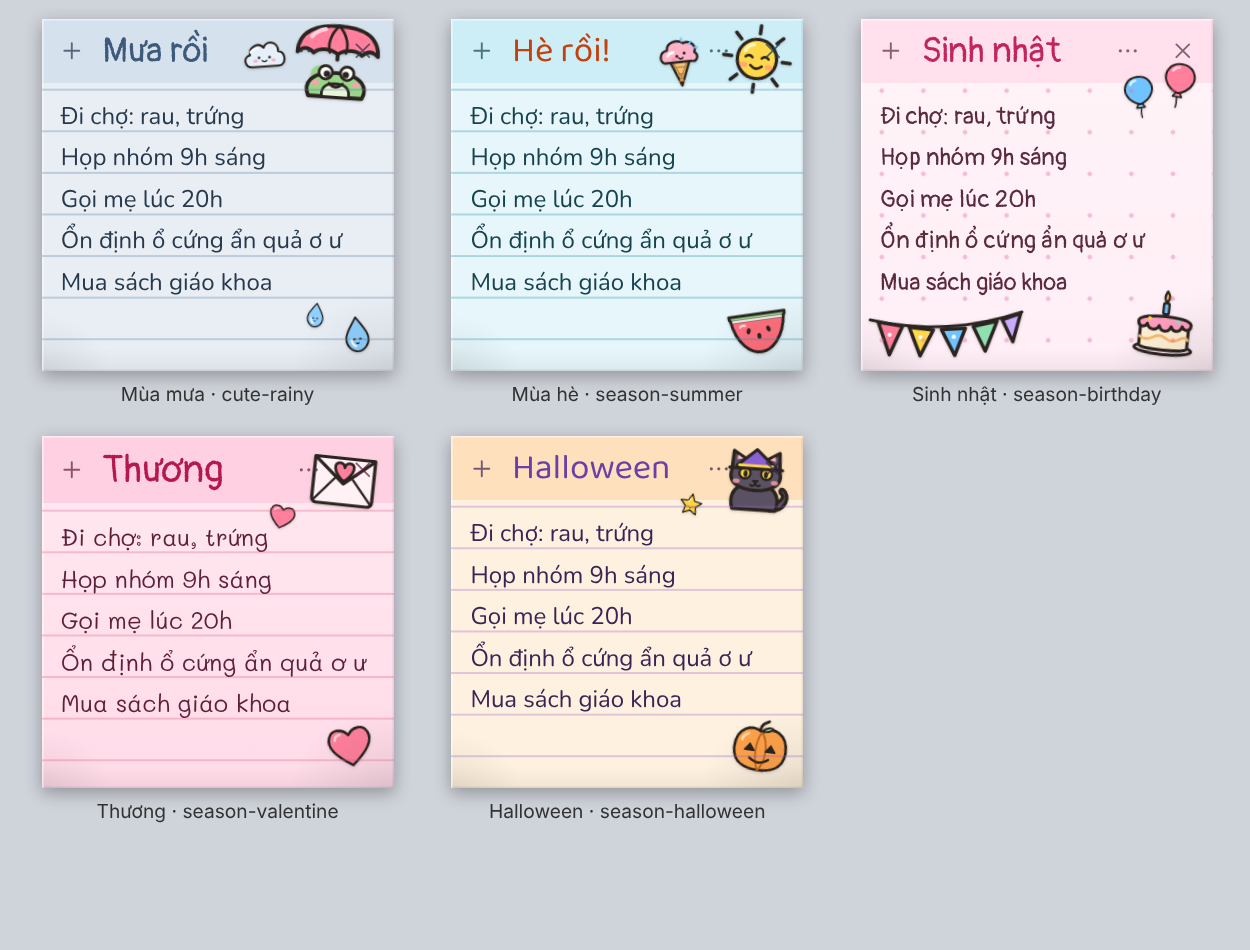
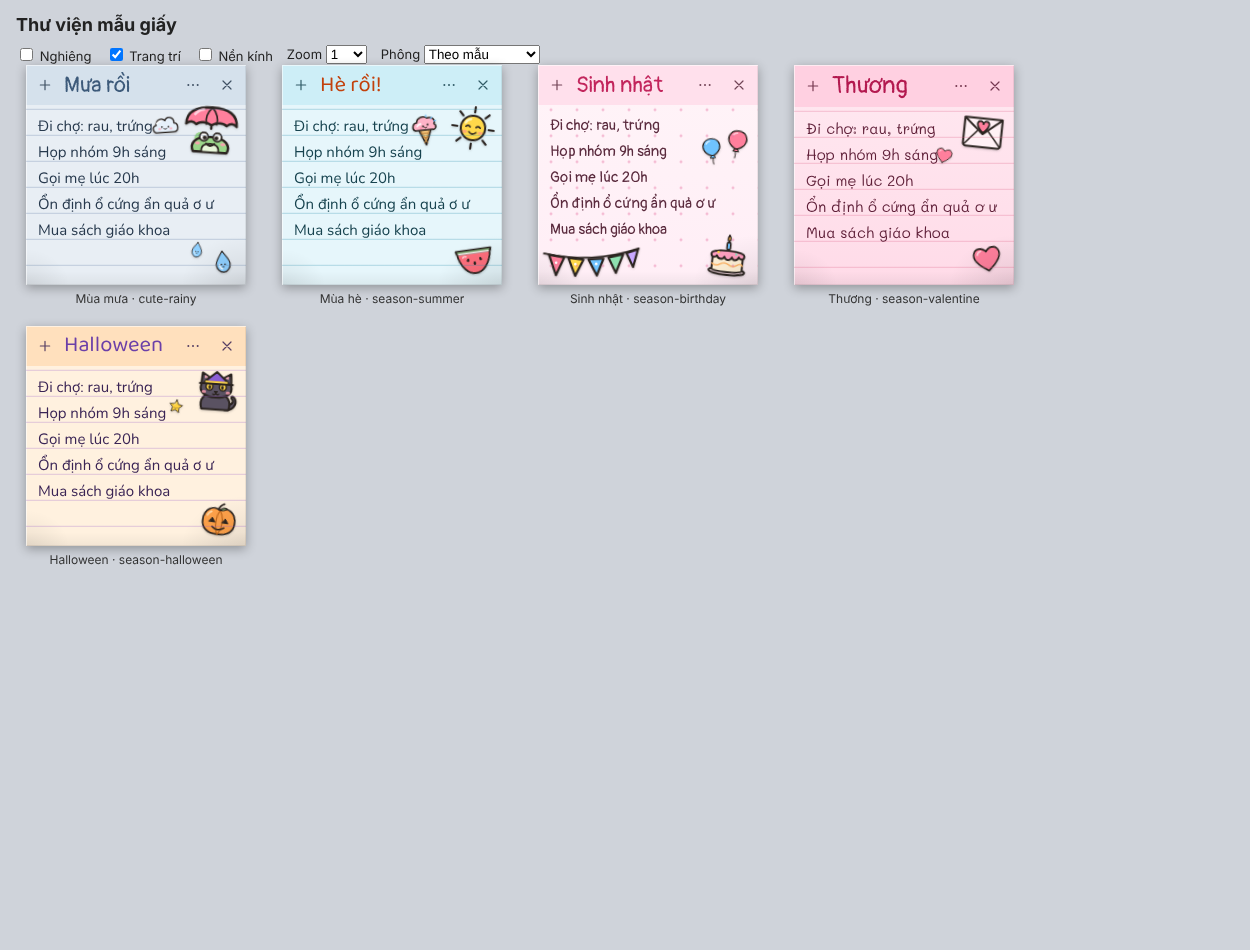
Phòng paper lượt 2: trang trí góc trên không che nút, Hoãn nhắc tính từ giờ hẹn, ảnh nghiệm thu, cập nhật trạng thái
Claude-Session: https://claude.ai/code/session_018BQSJtVWb7SGQiBTxfKC4D

diff --git a/src/note/note.js b/src/note/note.js
@@ -657,7 +657,12 @@
     try {
       if (b.dataset.a === 'edit') { showForm(rid); return; }
       if (b.dataset.a === 'done') r = await N2.doneItem(id, rid);
-      else if (b.dataset.a === 'snooze') { r = await N2.snoozeItem(id, rid, 10); toast('Hoãn 10 phút', 1000); }
+      else if (b.dataset.a === 'snooze') {
+        // snoozeItem đặt due = bây giờ + phút; nhắc chưa tới giờ thì hoãn tính từ giờ hẹn (không làm nhắc sớm hơn)
+        const it = (note.reminders || []).find(x => x && x.id === rid);
+        const ahead = it && it.due > Date.now() ? Math.ceil((it.due - Date.now()) / 60000) : 0;
+        r = ahead + 10 > 7 * 24 * 60 && it ? await N2.setReminderItem(id, rid, { due: it.due + 600000, lead: it.lead, repeat: it.repeat, title: it.title }) : await N2.snoozeItem(id, rid, ahead + 10); toast('Hoãn 10 phút', 1000);
+      }
       else if (b.dataset.a === 'del') r = await N2.removeReminderItem(id, rid);
     } catch (_) {}
     if (r && r.id) applyNote(r, { noHtml: true });

diff --git a/src/note/paper.css b/src/note/paper.css
@@ -112,3 +112,9 @@ body.locked .paper-layer [data-pos="bl"], body.locked .paper-layer [data-pos="br
 /* nút thanh trên nổi rõ khi đè lên trang trí */
 .has-paper .topbar .ib:hover { background: linear-gradient(rgba(var(--fg-rgb), .12), rgba(var(--fg-rgb), .12)), rgb(var(--head-rgb)); }
 .has-paper .topbar .ib[aria-expanded="true"] { background: linear-gradient(rgba(var(--fg-rgb), .2), rgba(var(--fg-rgb), .2)), rgb(var(--head-rgb)); }
+
+/* thanh trên luôn nằm trên trang trí; trang trí 'tr' hạ xuống dưới hàng nút (--tb-r = chiều cao thanh trên) để không che ×, …, đếm checklist */
+.has-paper .topbar > :not(.paper-head) { position: relative; z-index: 2; }
+.has-paper:not(.glass) .topbar .ib:is(:hover, :focus-visible) { opacity: 1; }
+.has-paper { --tb-r: calc(var(--topbar-h, 32px) - 2px); }
+.ppthumb .ppt-in.has-paper { --tb-r: 0px; }

diff --git a/src/note/paper.js b/src/note/paper.js
@@ -201,7 +201,7 @@
       case 'bottom': s.left = 'calc(50% + ' + dx + 'px)'; s.bottom = dy + 'px'; tf = 'translateX(-50%) '; break;
       case 'left': s.left = dx + 'px'; s.top = 'calc(50% + ' + dy + 'px)'; tf = 'translateY(-50%) '; break;
       case 'right': s.right = dx + 'px'; s.top = 'calc(50% + ' + dy + 'px)'; tf = 'translateY(-50%) '; break;
-      default: s.right = dx + 'px'; s.top = dy + 'px'; // tr
+      default: s.right = dx + 'px'; s.top = 'calc(' + dy + 'px + var(--tb-r, 0px))'; // tr: hạ xuống dưới hàng nút thanh trên
     }
     if (w && el.tagName === 'IMG') s.width = w + 'px';
     if (rot) tf += 'rotate(' + r1(rot) + 'deg)';

diff --git a/docs/rooms/paper.md b/docs/rooms/paper.md
@@ -19,41 +19,45 @@ Cảm hứng người dùng gửi: xấp note giấy kem lốm đốm mực, ô 
 - Không dùng tài nguyên có bản quyền; ghi nguồn + giấy phép phông chữ trong `assets/fonts/LICENSES.md`.
 
 ## Trạng thái
-_Cập nhật 2026-10-15 (lượt 1 của phòng)._ Hợp đồng nội bộ: `docs/rooms/paper/DESIGN.md`.
+_Cập nhật 2026-10-15 (lượt 2 của phòng). Đợt 2 xong từ lượt 1 (tóm tắt cuối mục). Hợp đồng nội bộ: `docs/rooms/paper/DESIGN.md`._
 
-**Đã xong (cả 7 việc Đợt 2)**
-1. **Hệ mẫu giấy**: 19 mẫu thiết kế + 7 mẫu "Trơn" (= 7 màu cũ) — Dễ thương 5, Học sinh 4 (có ô ly vở VN, lề đỏ), Tối giản 4 (có kraft, nền tối), Văn phòng 3 (MEMO, To do, legal pad mép xé), Mùa & lễ 3 (Tết, Trung thu, Giáng sinh). `assets/paper/<id>/paper.json` → `node src/note/tools/build-catalog.js [--strict]` sinh `assets/paper/catalog.js` (kiểm schema + tương phản WCAG). Engine `src/note/paper.js/.css`: nền (màu/gradient/lốm đốm/vân/kraft), dòng kẻ cuộn theo chữ, line-height = bước lưới (khớp cả khi zoom), tiêu đề in sẵn, trang trí, mép xé, góc gập, bóng mép giấy. Mẫu trơn = y hệt 0.1.
-2. **Bộ chọn mẫu** (`picker.js`): menu "…" → "Mẫu giấy…": tab nhóm, lưới xem trước, rê chuột xem thử ngay trên note, phông, hình dạng, nghiêng nhẹ, ẩn/hiện trang trí, "Dùng cho note mới". 7 ô màu cũ giữ nguyên (chọn = mẫu trơn).
-3. **Thú nguyên bản**: 12 thú SVG (mèo đen ×3, gấu, thỏ, cún tai nghe, viên mochi, gà con, hamster, cánh cụt, ếch, cá voi) + 16 đồ trang trí (ghim, kẹp, hoa mai/đào, đèn ông sao, bánh trung thu, thông Noel…) — `assets/paper/deco/README.md`.
-4. **Checklist** (`checklist.js`): `<div data-ck="0|1">`; gõ `[] `/`[ ] `/`- [ ] ` (và `- ` khi đã ở chế độ checklist) → ô tick; bấm tick (gạch ngang, mờ), đếm `x/y` trên thanh trên, Enter thêm dòng, Enter dòng rỗng/Backspace đầu dòng thoát, kéo tay nắm đổi thứ tự, menu "Chuyển thành checklist/Bỏ checklist", undo/redo được. Text lưu dạng `- [ ] …`/`- [x] …` cho "hiểu note". Tick → `MochiPaperStore.checkItem` → (main) bus `note:checkItem {noteId,index,done}`.
-5. **Phông offline** OFL có tiếng Việt: Itim, Pangolin, Mali, Nunito, Baloo 2, Be Vietnam Pro (716 KB) — `assets/fonts/LICENSES.md`.
-6. **Hình dạng**: Tự do/Vuông 300×300/Đứng 260×360/Mini 220×170; bóng mép giấy; nghiêng nhẹ (tiêu đề + trang trí). Nền kính vẫn giữ (khi kính bật chỉ vẽ dòng kẻ/tiêu đề/trang trí — chưa thử trên Windows thật).
-7. **Dải gợi ý "hiểu note"** (`insight.js`): chỉ bật khi có `mochi.alarms.insight`; nhận diện mềm `suggestions|actions`. Phòng notes chưa công bố API nên hiện luôn ẩn.
-- Dữ liệu: ngăn `paper` (`src/main/paper/index.js`, test `node src/main/paper/__tests__/paper.test.js` 24 ca). **Khi main chưa nạp module paper** (hiện tại), renderer tự rơi về `localStorage` — mọi tính năng vẫn chạy, chỉ là chưa vào `mochi-data.json`/sao lưu và chưa phát `note:checkItem`.
+**Lượt 2 — đã xong** (commit trên `room/paper`, `npm test` xanh, `build-catalog --strict` xanh)
+1. **Sửa lỗi QA của phòng**: BUG-007 (tô sáng kết hợp đậm/gạch chân mất khi mở lại — sanitizer giữ `background-color` trên B/I/U/S/STRIKE/DEL/MARK/SPAN/FONT; e2e `note-format` 11/11 xanh), BUG-017 (note rỗng mới tự đặt con trỏ), BUG-018 (menu "…" cuộn trong khung, gọn/2 cột ở note thấp — "Xoá note" tới được ở 300×220 và Mini 220×170), BUG-019 (panel nhắc: thân cuộn, hàng nút ghim đáy), BUG-026 (chip: "vừa đến giờ"/"quá hạn vài giây", không hiện giây).
+2. **Thùng rác**: xác nhận xoá đổi thành "Chuyển vào thùng rác?" + "Khôi phục được trong 30 ngày ở danh sách note."
+3. **Nhiều nhắc/note** (API2 của notes): panel liệt kê từng nhắc (tiêu đề, giờ, lặp, quá hạn) với Xong / Hoãn 10 phút / Sửa (thêm ô "Tên nhắc") / Xoá, "+ Thêm nhắc"; chip nhắc chính thêm "· +N". Hoãn nhắc chưa tới giờ tính từ giờ hẹn (không làm nhắc sớm hơn). Không có `mochi.notes2.setReminderItem` hoặc `reminders[]` → hành vi cũ. CSS mới `src/note/reminders.css`.
+4. **Dải gợi ý "hiểu note"** khớp API thật: `mochi.alarms.insight(noteId)` → tối đa 3 nút (co 2/1 nút + "…" ở note hẹp), câu dẫn theo loại gợi ý, bấm → `applySuggestion` → toast `message` → gọi lại; debounce 700ms + `MochiNote.on('note')`; × ẩn tới khi nội dung đổi; note khoá thì tắt checklist/split.
+5. **Ẩn/hiện mẫu**: settings `hiddenPapers: string[]` (main `paperLogic.cleanHidden` + renderer, id `/^[a-z0-9-]{1,64}$/`, ≤200, thay cả mảng). Bộ chọn: "Sửa danh sách" → con mắt trên từng ô, "Hiện lại tất cả"; mẫu đang dùng/mặc định luôn hiện; tab hết mẫu thì ẩn. Đã kiểm: khởi động lại vẫn ẩn.
+6. **Chuyển dữ liệu localStorage cũ → ngăn `paper`** (`paperStore.migrateLegacy`, chạy trong `load`): không ghi đè meta/settings đã có ở main, idempotent, xoá khoá sau khi chuyển. Đã kiểm trên app thật.
+7. **5 mẫu mới** (tổng 31: Trơn 7, Dễ thương 6, Học sinh 4, Tối giản 4, Văn phòng 3, Mùa & lễ 7): `season-summer` "Hè rồi!", `season-birthday` "Sinh nhật", `season-valentine` "Thương", `season-halloween` (mèo đen đội mũ phù thuỷ + bí ngô, không đáng sợ), `cute-rainy` "Mưa rồi" (ếch che ô). 14 SVG trang trí mới nguyên bản (README deco).
+8. **Engine**: trang trí góc trên phải tự hạ xuống dưới hàng nút (`--tb-r`), các nút thanh trên luôn nằm trên trang trí — trước đây ô/phong thư/mèo che "…"/× ở nhiều mẫu.
 
-**Quyết định đã ghi**: per-note lưu trong ngăn `paper.noteMeta` (store.js bỏ khoá lạ của note); note 0.1 không có meta → `plain-<màu>`; đổi mẫu thì đổi luôn `note.color` sang màu gần nhất (danh sách note, nền cửa sổ); tiêu đề Tết là "Tết" (câu dài bị cắt ở note hẹp); trang trí góc dưới mờ đi khi đang gõ để không đè thanh định dạng; số đếm checklist đặt cạnh nút menu.
+**Đã kiểm tích hợp (nhân viên rà soát chạy app thật xvfb + CDP, 0 lỗi console)**: bộ chọn đủ 31 mẫu, xem thử, chọn, "Dùng cho note mới"; ẩn mẫu bền qua khởi động lại; chuyển dữ liệu cũ; checklist (tick, 1/2, lưu `- [x]`); panel nhắc + Mini; dải gợi ý + toast; gõ Việt, đậm + tô sáng giữ sau khởi động lại, undo/redo, Ctrl+F, zoom, khoá, xoá → thùng rác; note 0.1 hồng trơn y nguyên.
+E2E toàn bộ: ca note-format/persist/list xanh. Ca đỏ **không thuộc paper**: `reminder.test.js` 3 ca parse (BUG-009/012, notes), `data.test.js` ca 1 (nhập JSON thêm `reminder.id 'r1'` — migration notes) và 3d (ngăn game mất khi `alarms` hỏng — store/game).
 
-**Đã kiểm (xvfb + điều khiển qua CDP)**: chọn mẫu, xem thử, lưu & khởi động lại vẫn giữ, mẫu mặc định cho note mới (Ctrl+N), Mini, chế độ dự phòng localStorage; chức năng cũ: gõ, đậm, undo/redo, tìm (1/3), zoom (dòng kẻ giãn theo), khoá chỉ đọc, chip nhắc tự hiểu giờ, note 0.1 hồng trơn y nguyên; `npm test` xanh. Rà soát code: không lỗi mức cao; các lỗi trung/thấp đã sửa.
+**Ảnh nghiệm thu lượt 2** (`docs/rooms/paper/`): `paper-grid.png` (31 mẫu), `r2-new-papers.png` (5 mẫu mới), `r2-3-notes-picker.png` (3 note: checklist đang tick 2/3, bộ chọn đang mở, kraft), `r2-picker-hide.png`, `r2-reminders.png` (panel 4 nhắc), `r2-reminders-mini.png` (panel ở Mini), `r2-menu-small.png`, `r2-insight.png`.
 
-**Ảnh nghiệm thu** (`docs/rooms/paper/`): `paper-grid.png` (26 mẫu + thumb), `notes-3-papers-checklist.png` (3 mẫu khác nhau, chữ Việt, checklist đang tick 2/6, note 0.1 trơn), `checklist.png`, `picker.png` (bộ chọn, đang xem thử "Hồng chấm bi"), `fallback-localstorage.png`.
-
-**Cách chạy thử**: thư viện mẫu `src/note/tools/gallery.html` (mở bằng Chromium/Electron qua file://); trang thử `src/note/tools/{checklist,picker,insight}-test.html`. App: như CLAUDE.md; muốn thử ngăn `paper` thật thì sửa tạm `main.js` thêm `'paper'` vào danh sách module (không commit).
+**Cách chạy thử**: như lượt 1 (gallery `src/note/tools/gallery.html`, trang thử `src/note/tools/*-test.html`); app chạy theo CLAUDE.md — ngăn `paper` nay đã được main nạp, không cần sửa tạm `main.js`.
 
 **Chưa kiểm được / đang dở**
-- Chưa thử trên Windows thật (nền kính acrylic + mẫu giấy, phông hiển thị, IME Telex/VNI khi gõ `[] `).
-- Mép xé/góc gập cắt bằng mask trên cửa sổ đục nên phần bị cắt lộ màu nền cửa sổ; nghiêng chỉ áp cho trang trí — cần cửa sổ trong suốt (đề xuất 4).
-- Dải gợi ý chờ API của phòng notes.
+- Chưa thử trên Windows thật (nền kính + mẫu giấy, phông, IME Telex/VNI khi gõ `[] `).
+- Gợi ý loại `remind`/`remind-all`/`alarm` chưa thấy trên app thật (nhắc tự động của notes đã lọc hết) — chỉ kiểm bằng trang thử.
+- Bộ chọn mẫu phủ gần hết note nhỏ nên khó thấy bản xem thử khi rê (nhẹ); trang trí góc trên phải nay hơi chồng chữ dòng đầu bên phải (chữ vẫn nằm trên, đọc được).
+- Mép xé/góc gập/nghiêng thật vẫn chờ cửa sổ trong suốt (đề xuất 4).
 
 **Việc tiếp theo cụ thể**
-1. Khi điều hành nạp `paper`: chuyển dữ liệu localStorage cũ (nếu có) vào ngăn `paper` một lần (paperStore: đọc `mochi.paper.meta.*` rồi `set`).
-2. Khi notes công bố Insight: khớp `insight.js` theo API.md của họ.
-3. Thêm mẫu (mùa hè, sinh nhật, Valentine) và cho người dùng ẩn bớt mẫu.
+1. Bộ chọn: khi rê xem thử thì làm mờ/thu popover (hoặc mở popover ở chế độ "nhỏ gọn" dạng dải ngang dưới đáy) để thấy note.
+2. Engine: dành lề phải dòng đầu (padding) khi có trang trí `tr` để chữ không chồng trang trí.
+3. Thêm mẫu Tết Trung thu thiếu nhi/ khai giảng/ 20-11; cho phép người dùng chọn thú trang trí riêng (đổi thú trên mẫu).
+4. Khi notes sửa xong migration `reminder.id`, chạy lại `data.test.js`.
 
 **Vướng mắc**: không.
 
+_Tóm tắt lượt 1 (Đợt 2)_: hệ mẫu giấy `assets/paper/<id>/paper.json` → `assets/paper/catalog.js` (kiểm schema + WCAG), engine `paper.js/.css` (dòng kẻ khớp line-height kể cả zoom), bộ chọn `picker.js`, 12 thú + 16 đồ SVG nguyên bản, checklist `checklist.js` (lưu `- [ ]`/`- [x]`, bus `note:checkItem`), 6 phông OFL tiếng Việt (`assets/fonts/LICENSES.md`), hình dạng Tự do/Vuông/Đứng/Mini + nghiêng + bóng; per-note lưu ở `paper.noteMeta`, note 0.1 → `plain-<màu>`.
+
 ## Đề xuất cho phòng điều hành
-1. `src/main/main.js`: thêm `'paper'` vào mảng module phòng (`['alarms', 'petcore', 'game', 'persona', 'paper']`). Đã thử: khởi động sạch, dữ liệu lưu vào ngăn `paper`.
-2. `docs/spec/00-ownership.md`: paper sở hữu thêm `src/main/paper/**`. `docs/spec/01-data.md`: ngăn `paper` (hình dạng ở DESIGN.md mục 1).
-3. `docs/spec/02-events.md`: sự kiện `note:checkItem {noteId, index, done}` (phát bởi paper, mỗi lần người dùng bấm tick/bỏ tick). Phòng game sau này nên thưởng idempotent (chỉ lần 0→1 đầu tiên theo noteId+nội dung dòng) để chống cày.
-4. Phòng notes (`noteWindows.js`): tuỳ chọn cửa sổ note trong suốt (`transparent: true`, nền do renderer vẽ) để mẫu giấy có mép xé/góc gập/nghiêng/bóng đổ thật; và `backgroundColor` lúc mở theo màu mẫu (hiện theo `note.color` — đã đồng bộ màu gần nhất nên chấp nhận được).
-5. Phòng notes (`transferLogic.js` sanitizer khi nhập): giữ `data-ck="0|1"` trên DIV/LI để nhập/xuất không mất ô tick.
+1. ~~Nạp module `paper` trong `main.js`~~ — đã gộp. ~~Ownership `src/main/paper/**`, ngăn `paper` trong 01-data, sự kiện `note:checkItem` trong 02-events~~ — đã có.
+2. `docs/spec/01-data.md`: thêm `paper.settings.hiddenPapers: string[]` (mặc định `[]`).
+3. Phòng notes (`noteWindows.js`): tuỳ chọn cửa sổ note trong suốt (`transparent: true`, nền do renderer vẽ) để mép xé/góc gập/nghiêng/bóng đổ thật; `backgroundColor` lúc mở theo màu mẫu.
+4. Phòng notes (`transferLogic.js` sanitizer khi nhập): giữ `data-ck="0|1"` trên DIV/LI để nhập/xuất không mất ô tick (chưa làm).
+5. Phòng notes: `snoozeItem` khi nhắc chưa tới giờ nên tính từ `max(due, now)` (paper đã tự bù ở renderer; nên sửa gốc để bé/toast cũng đúng). IPC kẹp 7 ngày.
+6. Phòng game (nếu thưởng checklist): thưởng idempotent theo noteId + nội dung dòng, chỉ lần 0→1 đầu tiên.
